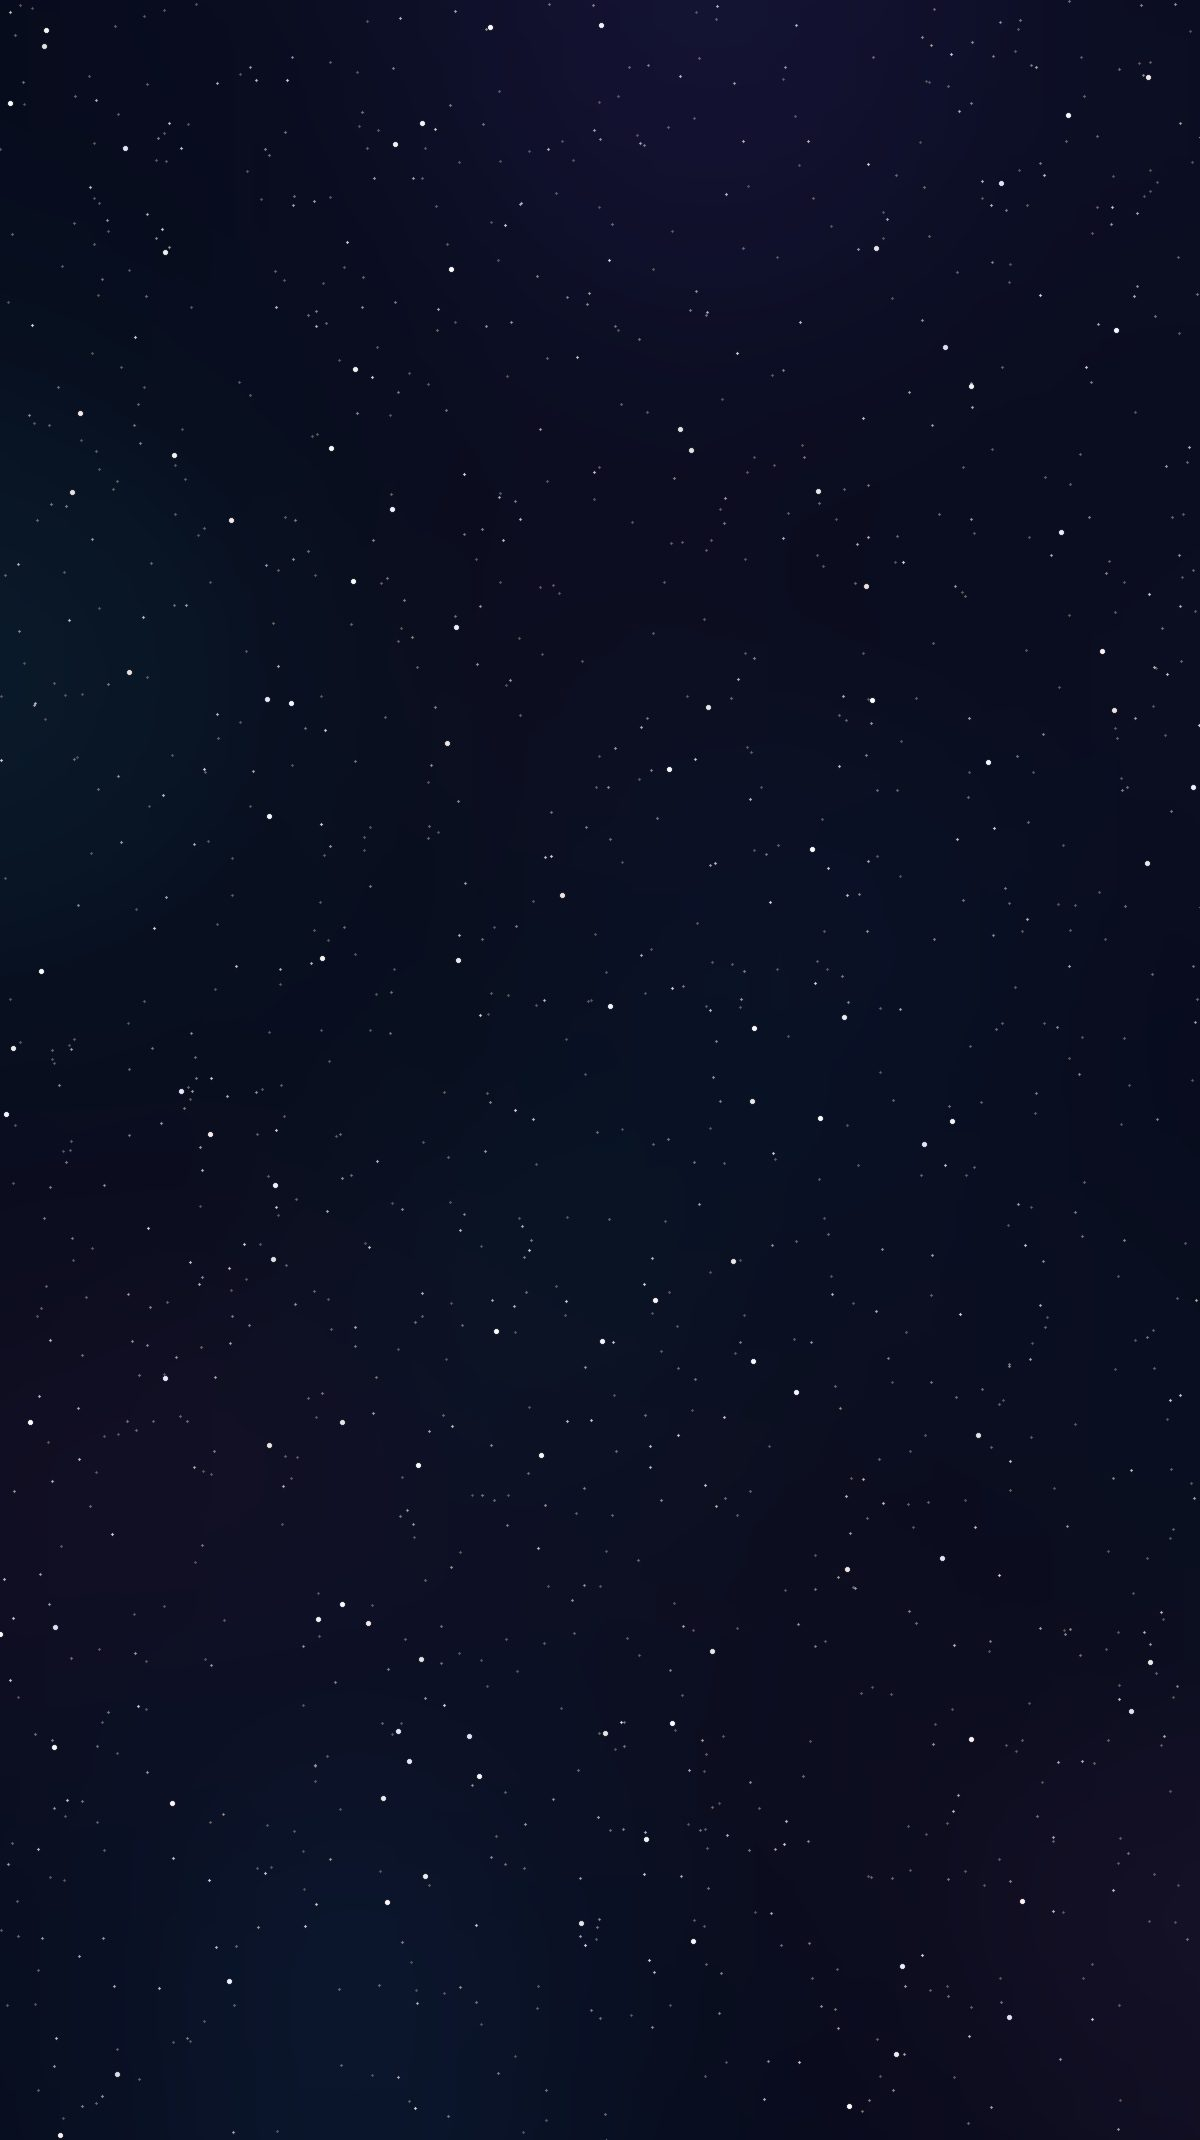
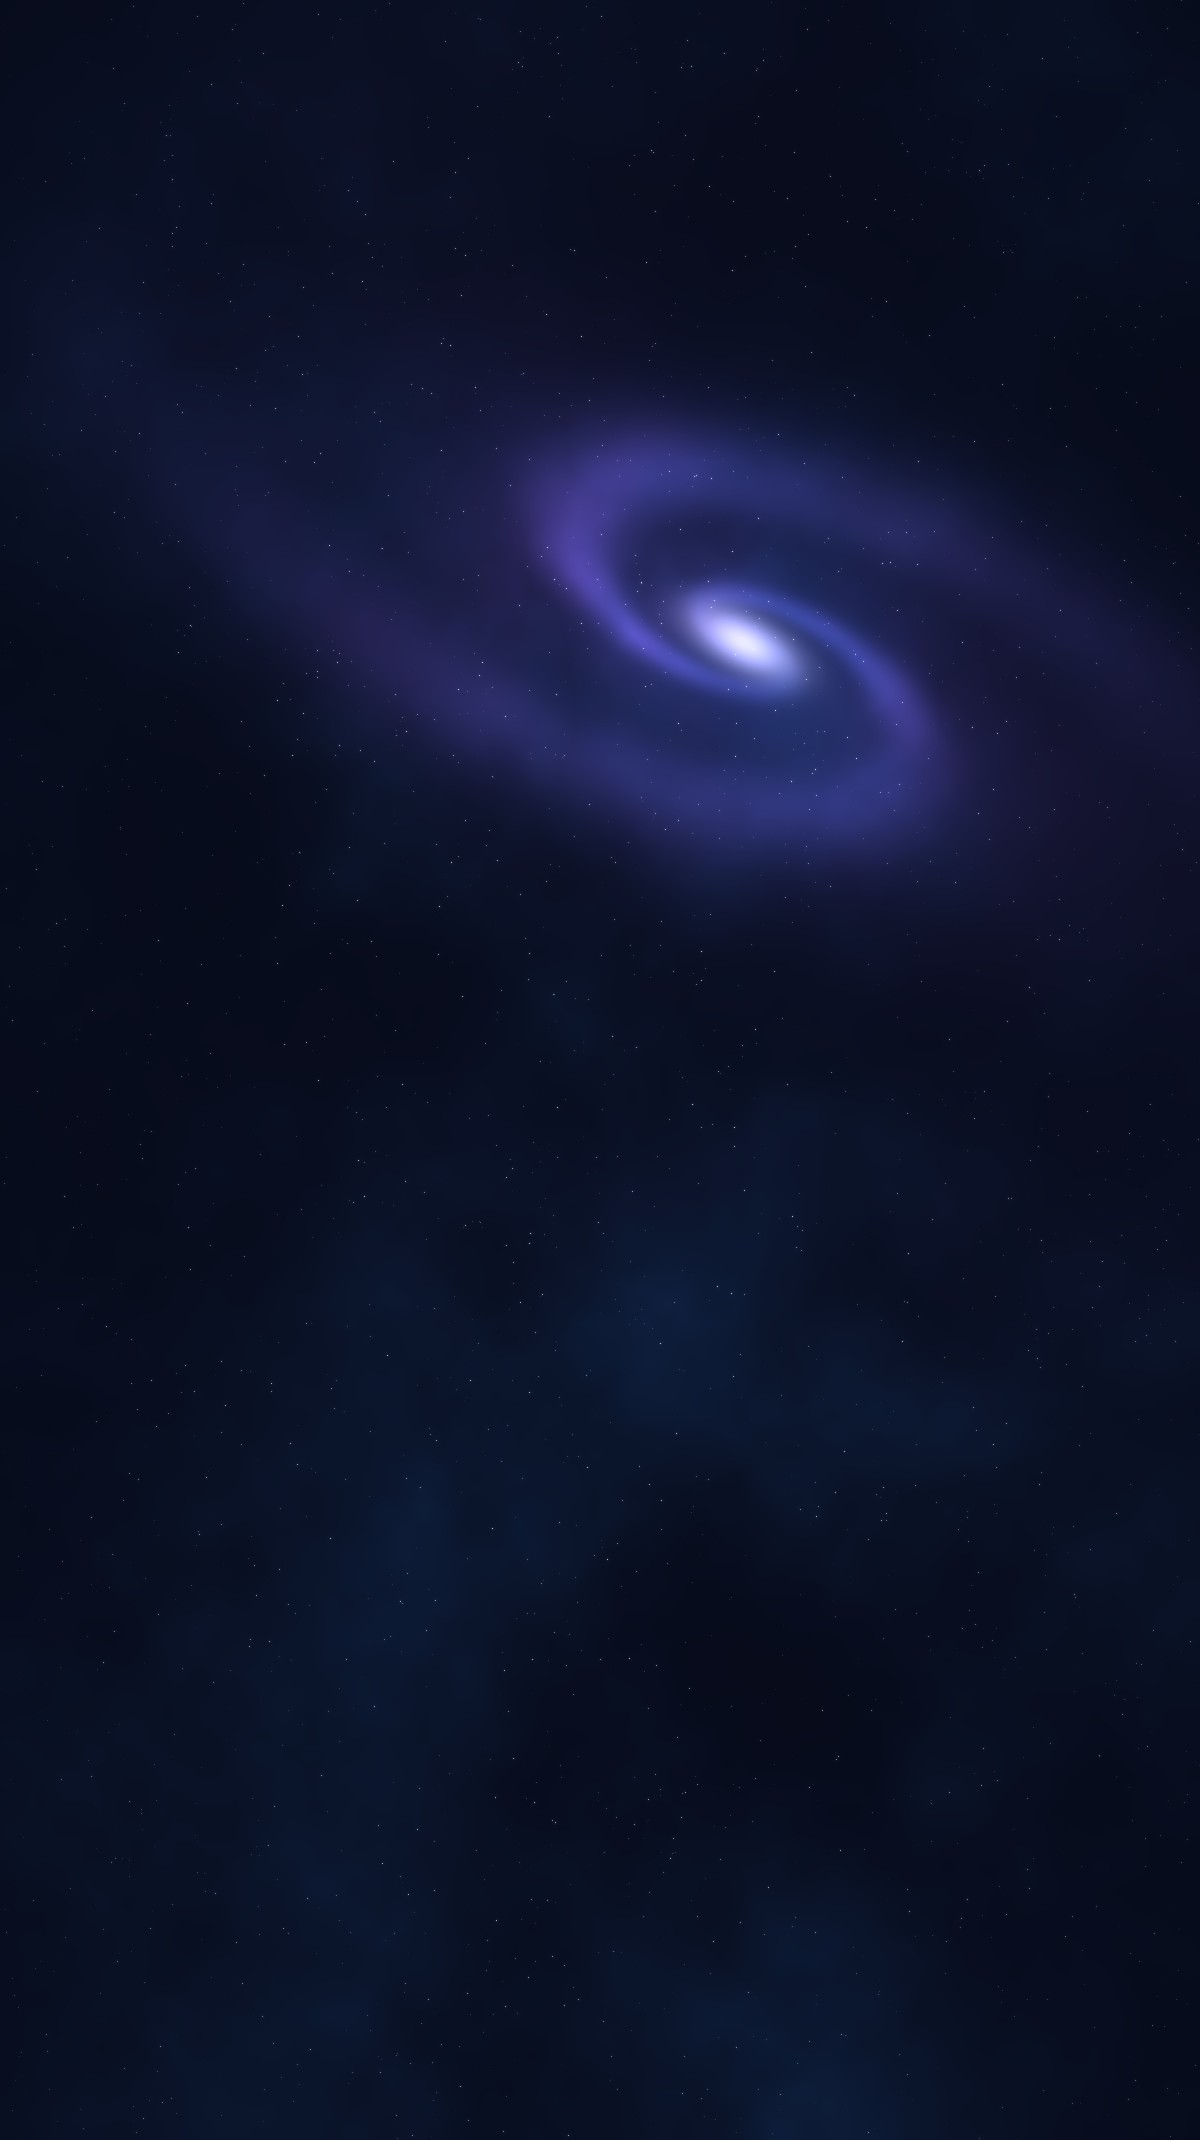
fix(miya): the map grows again, the anchor is earned, and the sky has a galaxy
Three things the child sees on one screen, all broken in different ways.

THE MAP STOPPED GROWING. Talking to DUYO is supposed to write notes into the
brain map — a new topic becomes a note, a topic returned to gets enriched.
It had silently stopped. Same bug as the chalkboard, one file over:
_call_model asked for 600 max_output_tokens against an UNBOUNDED thinking
budget, and thinking is spent out of that same allowance. The model used the
lot reasoning, the JSON came back cut mid-object, json.loads raised, and a
blanket except swallowed it. No error surfaced; the map just never filled.
1800 against a bounded 768 now, the same pair the structured calls in
gemini.py were given when this bit them.

So it stops being silent. parse_structured() reads finish_reason and logs
MAX_TOKENS as itself, at ERROR, with the fix in the message. This failure
has now hidden twice in production; the third time it says so. Audited every
JSON caller while I was here — dtm, language, crisis_l2 and memory_candidates
all run with thinking disabled, and the two conversational paths in gemini.py
are prose, so goals.py was the last one.

THE ANCHOR WAS ARBITRARY. The centre body draws at SUN_R, half again the
largest planet, and it goes to order[0] of (-links, title). In a notebook
where nothing is linked yet — every new notebook — every note ties at zero
and the tie falls to whichever title sorts first. Writing one note by hand
[…]

Changed region(s): [[0.1542, 0.185, 0.9558, 0.4318], [0.6167, 0.9561, 0.7092, 1.0], [0.5242, 0.586, 0.5858, 0.6168]]

diff --git a/duyo-mobile/src/lib/galaxy-layout.ts b/duyo-mobile/src/lib/galaxy-layout.ts
@@ -72,8 +72,13 @@ const DAMPING = 0.85;
 
 const MIN_R = 7;
 const MAX_R = 17;
-/** The centre body is drawn larger than any planet — it is the anchor. */
+/** The centre body is drawn larger than any planet — it is the anchor.
+ *  Reached only by a note that has earned it; see `dominance` below. */
 const SUN_R = 26;
+
+/** How many incoming links, with no rival, make a note the middle of the map.
+ *  Below this the centre body is drawn somewhere between a planet and a sun. */
+const HUB_LINKS = 3;
 
 /** Room round the cloud for the biggest body and its label. The canvas the sky
  *  is drawn on is this much wider than the sky itself, and the physics is asked
@@ -289,8 +294,34 @@ export function layoutGalaxy(
   const density = densityFor(nodes.length);
   const minBody = MIN_R * density;
   const maxBody = MAX_R * density;
-  // The 0.55 guard this used to carry is dead under a 0.66 floor.
-  const sunBody = SUN_R * density;
+
+  // The centre body is only drawn as a SUN when it actually is one.
+  //
+  // `order` sorts by (-links, title). In a notebook where nothing is linked
+  // yet — which is every new notebook, and every notebook of separate topics
+  // — every note ties at zero links and the tie falls to whichever title
+  // sorts first alphabetically. That note was then drawn at SUN_R, half again
+  // the largest planet. So writing one note by hand could make an ordinary
+  // note swell into the anchor purely because of its first letter, and shrink
+  // again when the next note sorted earlier. That is what a child sees as
+  // "my planet went big for no reason".
+  //
+  // Dominance is how far ahead of the runner-up the top note is, as a
+  // fraction of its own links. No links, or no lead, and the centre is drawn
+  // as the largest planet; a real hub — the note everything points at — grows
+  // the rest of the way to SUN_R. The hierarchy still reads, it just has to
+  // be earned.
+  // The denominator is `max(HUB_LINKS, topLinks)`, not `topLinks`: dividing by
+  // the top count alone makes ONE incoming link with no rival a full-sized
+  // sun (1-0)/1 = 1, which is the same surprise in a smaller form. Three
+  // clear links is what it takes to be the middle of a map.
+  const topLinks = order[0].links;
+  const runnerUpLinks = order.length > 1 ? order[1].links : 0;
+  const dominance =
+    topLinks <= 0
+      ? 0
+      : Math.min(1, (topLinks - runnerUpLinks) / Math.max(HUB_LINKS, topLinks));
+  const sunBody = (MAX_R + (SUN_R - MAX_R) * dominance) * density;
 
   // Leave room for the largest body and the label under it.
   const pad = maxBody + 22;

diff --git a/duyo-mobile/src/config/brain-backdrop.ts b/duyo-mobile/src/config/brain-backdrop.ts
@@ -62,15 +62,18 @@ export interface BrainBackdropConfig {
 }
 
 export const BRAIN_BACKDROP: BrainBackdropConfig = {
-  // O'zimiz yasagan yulduzli osmon — 1200x2140, 68 KB, `#070B1A` asosida,
+  // O'zimiz yasagan spiral galaktika — 1200x2140, ~96 KB, `#070B1A` asosida,
   // ya'ni ostidagi tekis fon bilan bir xil rangda boshlanadi.
+  //
+  // Buning oldida tekis yulduzli osmon turardi, va u 0.32 shaffoflikda
+  // amalda ko'rinmasdi — ekran fonsizdek tuyulardi. Endi rasmning o'zida
+  // tuzilish bor: galaktika yuqorida, pastda esa quyuq tuman va yulduzlar.
   source: require('../../assets/images/brain-backdrop.jpg'),
   kind: 'image',
-  // 0.32, not the 0.55 this started at. The sayyoralar are shaded spheres
-  // a few pixels across; a photographic nebula at over half strength behind
-  // them has more contrast than they do, and the eye stops reading them as
-  // lit balls at all. The fon is the room, not the subject. Raise it back if
-  // you prefer the picture — bu bitta qator.
-  opacity: 0.32,
+  // 0.55 ga qaytarildi. 0.32 tekis osmon uchun tanlangan edi; bu rasmda
+  // yorug'lik yuqori uchdan birga jamlangan va vinyetka chetlarini fon
+  // rangiga qaytaradi, ya'ni sayyoralar turadigan pastki qism baribir
+  // quyuq qoladi va ular o'qilaveradi.
+  opacity: 0.55,
   tint: true,
 };

diff --git a/duyo-backend/tests/services/test_parse_structured.py b/duyo-backend/tests/services/test_parse_structured.py
@@ -1,0 +1,101 @@
+"""The failure that hid twice, made to announce itself.
+
+Thinking is spent out of `max_output_tokens` on these models, so a structured
+call's characteristic failure is a correct answer cut off mid-object. The
+generic JSONDecodeError that follows was swallowed by a blanket except at both
+call sites, and the result looked like "the feature does not work" rather than
+like an error:
+
+  * the chalkboard stopped appearing on the problems it was wanted for
+  * the brain map stopped growing from conversation
+
+These pin the behaviour that makes the third time loud instead.
+"""
+
+from __future__ import annotations
+
+import logging
+
+from duyo.services.gemini import parse_structured
+
+
+class _Finish:
+    def __init__(self, name: str) -> None:
+        self.name = name
+
+
+class _Candidate:
+    def __init__(self, finish: str | None) -> None:
+        self.finish_reason = _Finish(finish) if finish else None
+
+
+class _Resp:
+    """The shape google-genai hands back, reduced to what is read."""
+
+    def __init__(self, text: str | None, finish: str | None = "STOP") -> None:
+        self.text = text
+        self.candidates = [_Candidate(finish)]
+
+
+def test_a_whole_object_comes_back_parsed():
+    resp = _Resp('{"has_goal": true, "title": "O\'tkan kunlar"}')
+    assert parse_structured(resp, where="t") == {
+        "has_goal": True,
+        "title": "O'tkan kunlar",
+    }
+
+
+def test_a_truncated_reply_is_reported_as_a_budget_problem(caplog):
+    """The whole point: MAX_TOKENS must not read as malformed JSON.
+
+    The text here is exactly what a cut-off reply looks like — valid JSON up
+    to the point the budget ran out.
+    """
+    resp = _Resp('{"has_goal": true, "title": "O\'tkan ku', finish="MAX_TOKENS")
+
+    with caplog.at_level(logging.ERROR):
+        assert parse_structured(resp, where="insight_extract") is None
+
+    logged = caplog.text
+    assert "insight_extract" in logged
+    # The message has to name the fix, not just the symptom — this is the
+    # line someone reads at 2am wondering why a feature went quiet.
+    assert "max_output_tokens" in logged
+    assert "thinking_budget" in logged
+
+
+def test_truncation_is_checked_before_the_text_is_parsed():
+    """A cut-off reply that happens to still parse is STILL truncated.
+
+    The model can run out of budget exactly on a closing brace. The object
+    would load, and be missing whatever came after — so finish_reason wins
+    over a successful parse.
+    """
+    resp = _Resp('{"has_goal": true}', finish="MAX_TOKENS")
+    assert parse_structured(resp, where="t") is None
+
+
+def test_malformed_json_is_still_reported_separately(caplog):
+    resp = _Resp("not json at all")
+    with caplog.at_level(logging.ERROR):
+        assert parse_structured(resp, where="t") is None
+    assert "not valid JSON" in caplog.text
+
+
+def test_an_empty_reply_says_so_with_its_finish_reason(caplog):
+    resp = _Resp("", finish="SAFETY")
+    with caplog.at_level(logging.WARNING):
+        assert parse_structured(resp, where="t") is None
+    assert "SAFETY" in caplog.text
+
+
+def test_a_json_array_is_not_an_object():
+    """Callers do `data.get(...)`; a list would raise AttributeError there."""
+    assert parse_structured(_Resp('["a", "b"]'), where="t") is None
+
+
+def test_a_response_with_no_candidates_does_not_raise():
+    """Defensive: the SDK can hand back a response with nothing in it."""
+    resp = _Resp('{"ok": true}')
+    resp.candidates = []
+    assert parse_structured(resp, where="t") == {"ok": True}

diff --git a/duyo-backend/src/duyo/services/goals.py b/duyo-backend/src/duyo/services/goals.py
@@ -24,7 +24,6 @@ on its own and is never allowed to raise into this module.
 
 from __future__ import annotations
 
-import json
 import re
 from typing import Any
 from uuid import UUID
@@ -44,7 +43,7 @@ from duyo.models.goal import (
     GoalStatus,
 )
 from duyo.prompts import INSIGHT_EXTRACT_PROMPT
-from duyo.services.gemini import get_client
+from duyo.services.gemini import get_client, parse_structured
 from duyo.services.goal_matching import resolve_match_key
 from duyo.services.goal_paths import decompose_goal_into_notes
 from duyo.services.style_profile import merge_style_signal
@@ -121,19 +120,33 @@ async def _call_model(
             contents=f"{_context_block(history)}Bola aytdi: {message}",
             config=types.GenerateContentConfig(
                 system_instruction=INSIGHT_EXTRACT_PROMPT,
-                max_output_tokens=600,  # goal + style + topic share this budget
+                # Thinking is spent OUT OF max_output_tokens, so these two
+                # numbers are one budget, not two. This call had 600 against
+                # an unbounded think: the model spent the lot reasoning, the
+                # JSON came back cut mid-object, json.loads raised, and the
+                # except below swallowed it. Nothing failed loudly — the
+                # child's brain map simply stopped growing, and topics they
+                # had talked about never became notes.
+                #
+                # 1800 against a bounded 768: enough for the three-part object
+                # (goal + style + topic with up to three facts) with the think
+                # paid for out of the same budget. Same pair as the structured
+                # calls in services/gemini.py, which had this exact bug.
+                max_output_tokens=1800,
                 temperature=0.0,  # extraction, not creativity
                 thinking_config=types.ThinkingConfig(
-                    thinking_budget=settings.gemini_thinking_budget_flash
+                    thinking_budget=settings.gemini_thinking_budget_structured
                 ),
                 response_mime_type="application/json",
             ),
         )
-        data = json.loads((resp.text or "").strip())
     except Exception:
         log.exception("insight_extract_failed")
         return None
-    return data if isinstance(data, dict) else None
+    # Parsing moved OUT of the try: a truncated reply is not an exception to
+    # be swallowed with network errors, it is a budget that needs raising, and
+    # parse_structured says so by name instead of returning a silent None.
+    return parse_structured(resp, where="insight_extract")
 
 
 def _parse_goal(data: dict[str, Any]) -> dict[str, Any] | None:

diff --git a/duyo-backend/src/duyo/services/gemini.py b/duyo-backend/src/duyo/services/gemini.py
@@ -111,6 +111,56 @@ def reply_text(resp) -> str:
     return ""
 
 
+def parse_structured(resp, *, where: str) -> dict | None:
+    """Parse a JSON reply, naming the one failure that hides itself.
+
+    On these models the model's THINKING is spent out of `max_output_tokens`,
+    so a structured call's characteristic failure is not a network error and
+    not malformed JSON from a confused model — it is a correct answer cut off
+    mid-object because the think ate the budget. `json.loads` then raises a
+    generic JSONDecodeError, the caller's blanket `except` swallows it, and
+    the feature quietly does nothing at all.
+
+    That has now happened twice, silently, in production: the chalkboard
+    stopped appearing on exactly the problems it was wanted for, and the brain
+    map stopped growing from conversation. Both looked like "the feature does
+    not work", not like an error, because at that point there was no error
+    left to see.
+
+    So MAX_TOKENS is logged as itself, at ERROR, with the fix in the message.
+    The next time a budget drifts, it says so.
+
+    Returns the parsed object, or None with the reason already logged.
+    """
+    candidates = getattr(resp, "candidates", None) or []
+    finish = getattr(candidates[0], "finish_reason", None) if candidates else None
+    finish_name = getattr(finish, "name", None) or (str(finish) if finish else "")
+
+    if finish_name == "MAX_TOKENS":
+        log.error(
+            "%s: reply cut off at max_output_tokens — thinking shares this "
+            "budget, so raise max_output_tokens or lower thinking_budget",
+            where,
+        )
+        return None
+
+    raw = (resp.text or "").strip()
+    if not raw:
+        log.warning("%s: empty reply (finish_reason=%s)", where, finish_name or "?")
+        return None
+
+    try:
+        data = json.loads(raw)
+    except json.JSONDecodeError:
+        log.exception("%s: reply was not valid JSON", where)
+        return None
+
+    if not isinstance(data, dict):
+        log.warning("%s: reply parsed to %s, expected an object", where, type(data).__name__)
+        return None
+    return data
+
+
 
 @lru_cache
 def get_client() -> genai.Client:
